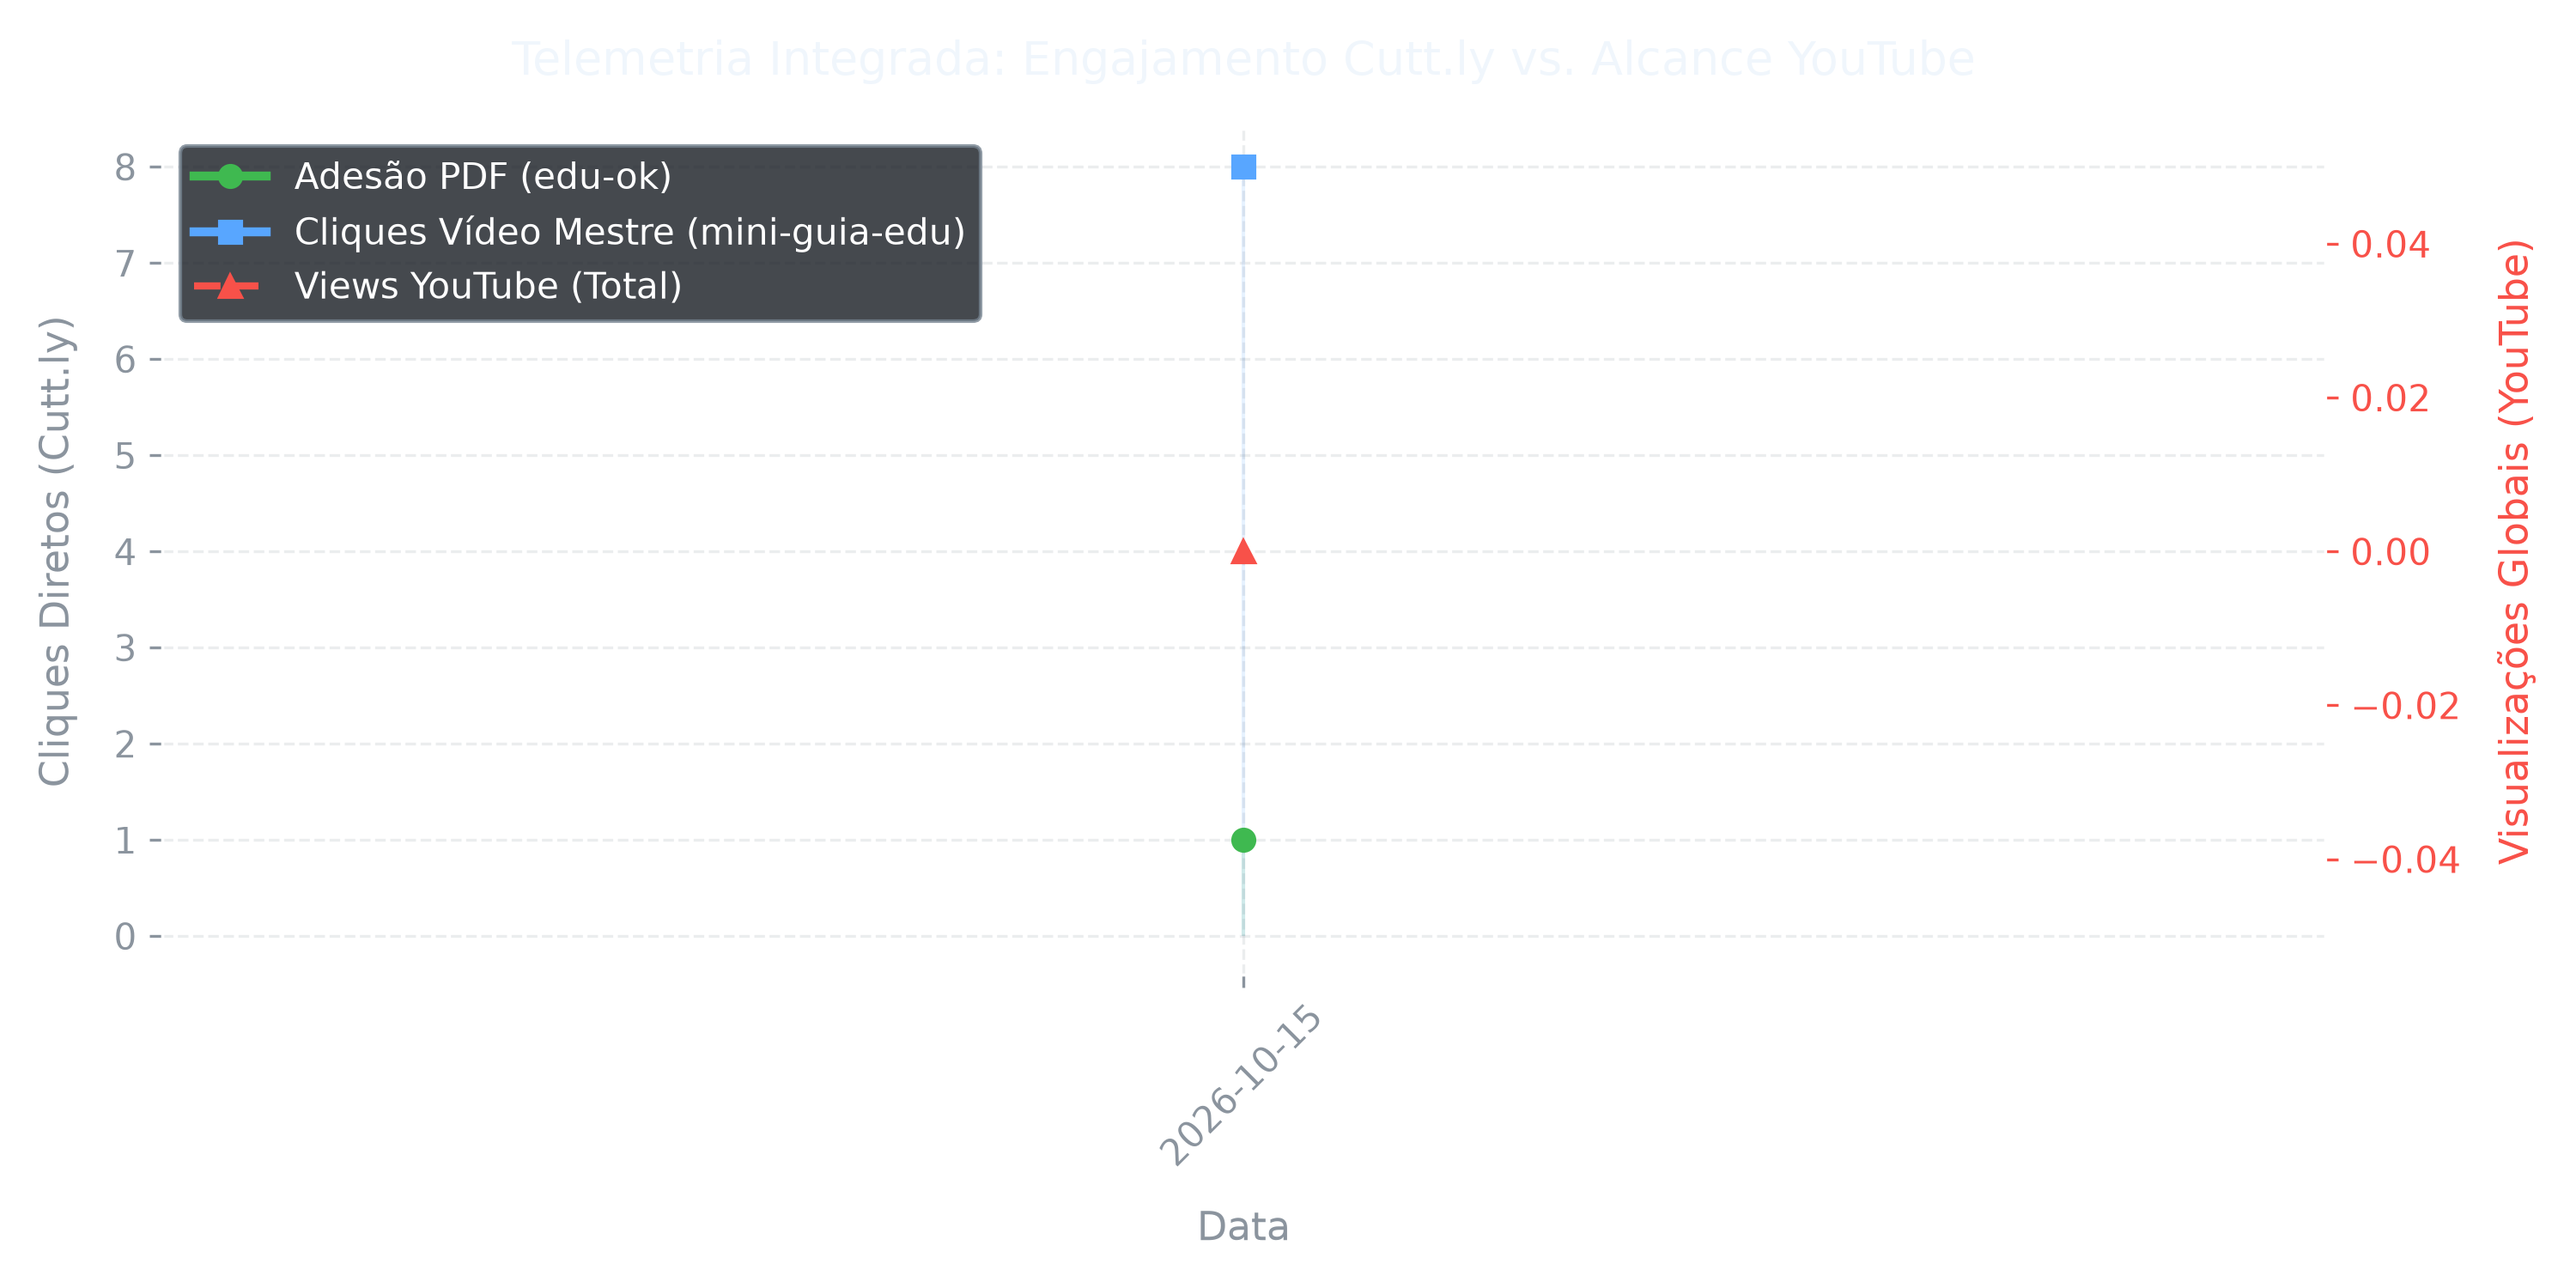
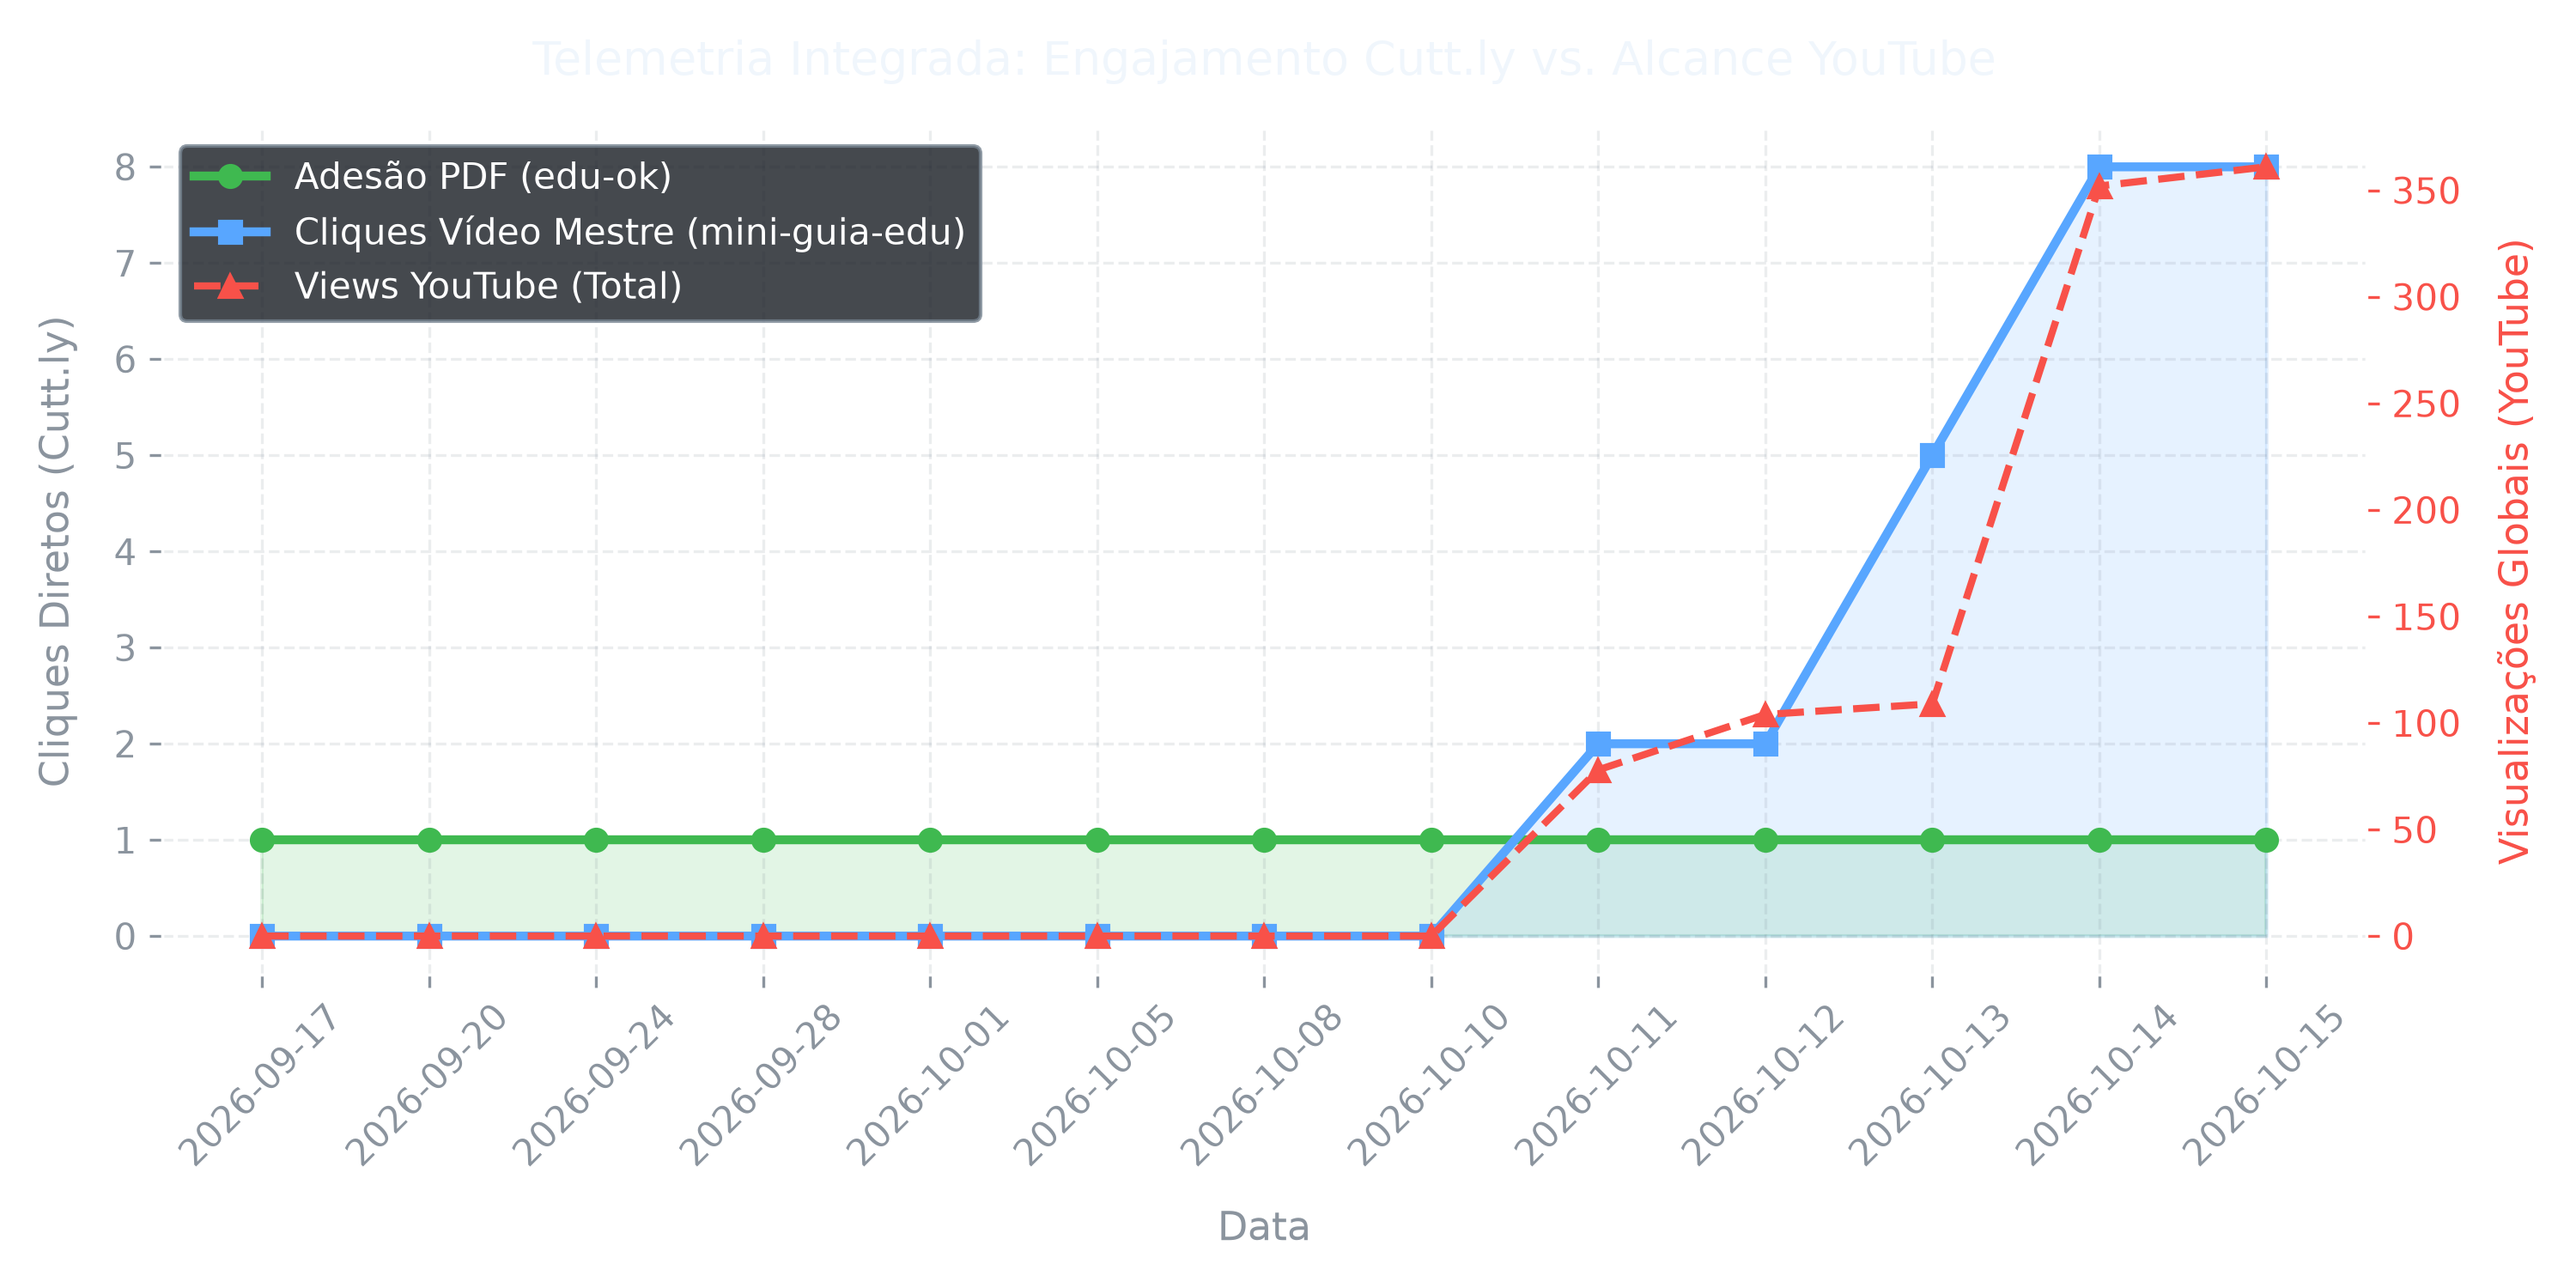
fix(telemetry): restaura serie temporal completa do CSV e normaliza metricas do YouTube

diff --git a/README.md b/README.md
@@ -55,7 +55,7 @@ O monitoramento do projeto opera sob arquitetura bimodal, diferenciando o tráfe
 Métricas rastreadas via links encurtados distribuídos nas campanhas ativas de WhatsApp:
 * 📄 **Adesão ao Material Escrito (PDF):** <!-- CLICKS_PDF_START -->**1**<!-- CLICKS_PDF_END --> download/confirmação (`cutt.ly/edu-ok`).
 * 🎬 **Acessos ao Vídeo Mestre Consolidado (141s):** <!-- CLICKS_VIDEO_START -->**8**<!-- CLICKS_VIDEO_END --> acessos direcionados (`cutt.ly/mini-guia-edu`).
-* 🕒 **Última sincronização:** <!-- DATE_START -->(Atualizado em 15/10/2026 às 08:06)<!-- DATE_END -->
+* 🕒 **Última sincronização:** <!-- DATE_START -->(Atualizado em 15/10/2026 às 08:13)<!-- DATE_END -->
 
 #### 2. Alcance e Retenção Audiovisual (YouTube Data API v3 & Studio)
 Distribuição multicanal composta por 1 Vídeo Mestre integrador e 4 Microvídeos atômicos (Shorts):
@@ -67,7 +67,7 @@ Distribuição multicanal composta por 1 Vídeo Mestre integrador e 4 Microvíde
 | `1cBKbu1aVzw` | **Parte 2: Cortando Tráfego de Dados** | 0m 34s | **106** | 53,16% (0:18) | Restrição de rede em segundo plano |
 | `FXA0WiQEX24` | **Parte 3: WhatsApp e Armazenamento** | 0m 49s | **13** | 72,31% (0:35) | Preservação de memória física |
 | `o2LVG3V4gk8` | **Parte 4: Restrição de Bateria** | 0m 33s | **3** | 28,48% (0:09) | Supressão de Tail Energy |
-| **TOTAL** | **Suíte Audiovisual Completa (5 vídeos)** | — | <!-- YT_VIEWS_START -->**0**<!-- YT_VIEWS_END --> | **47,98%** | **Alcance Global do Ecossistema** |
+| **TOTAL** | **Suíte Audiovisual Completa (5 vídeos)** | — | <!-- YT_VIEWS_START -->**361**<!-- YT_VIEWS_END --> | **47,98%** | **Alcance Global do Ecossistema** |
 
 > **Achado de IHC (Interação Humano-Computador):** A fragmentação do tutorial em microvídeos elevou a taxa de retenção de **39,67%** (Vídeo Mestre) para picos de **72,31%** (Shorts), comprovando empiricamente que a atomização procedural reduz a sobrecarga cognitiva e maximiza o aprendizado em dispositivos móveis.
 
